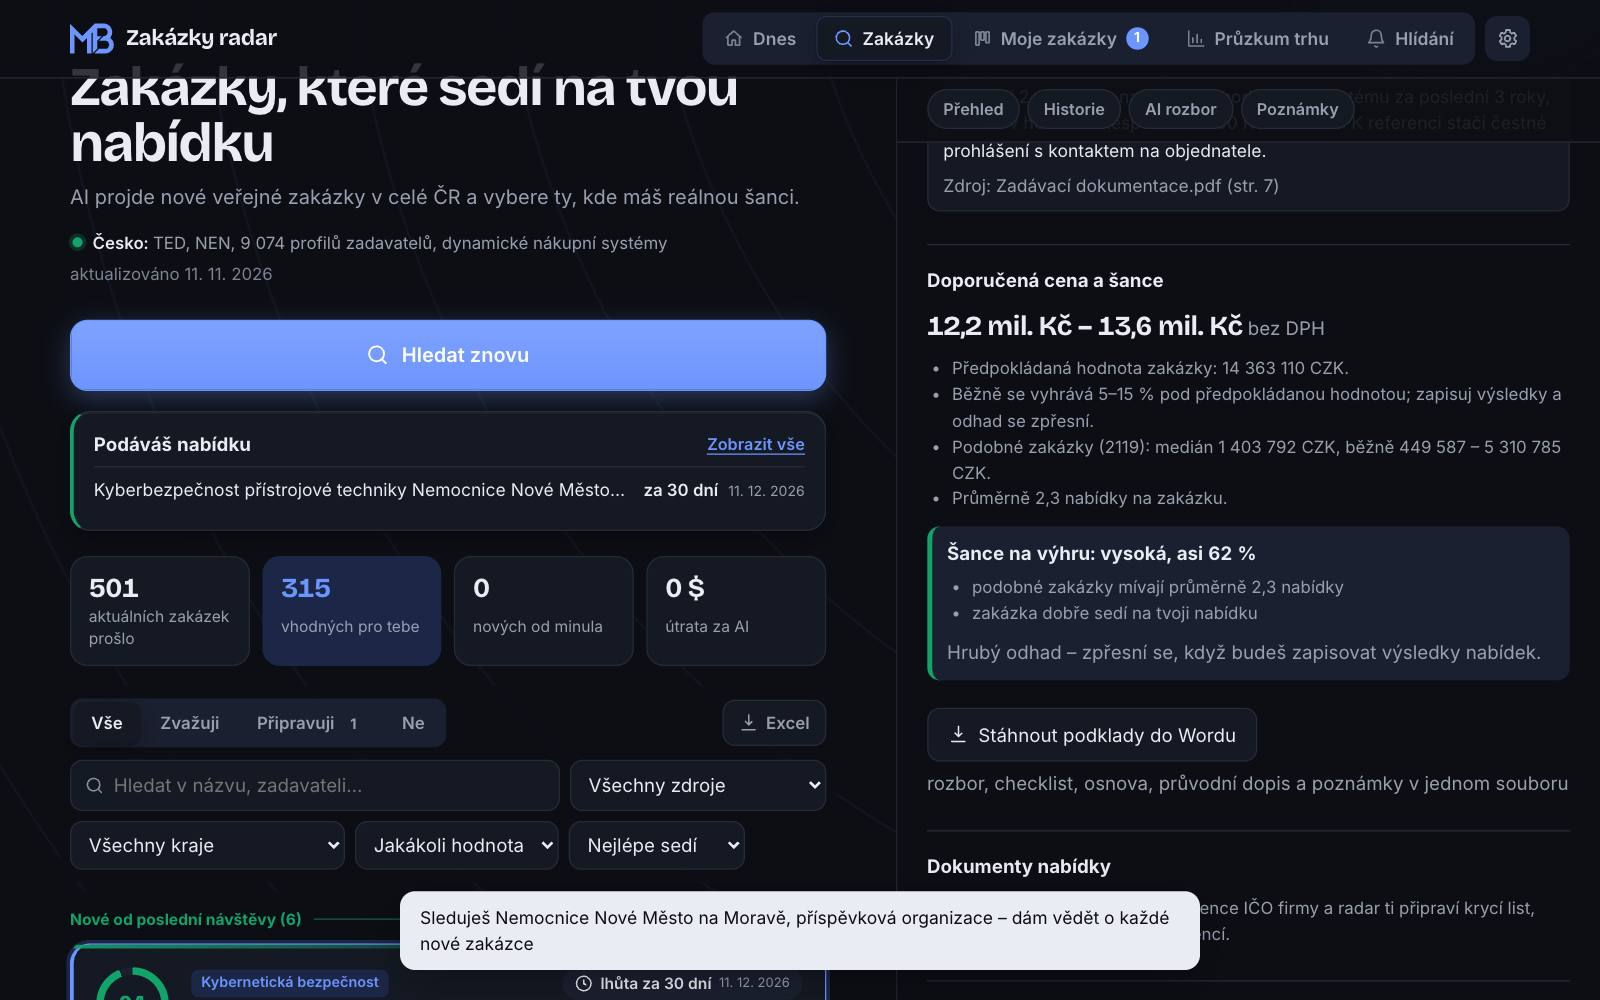
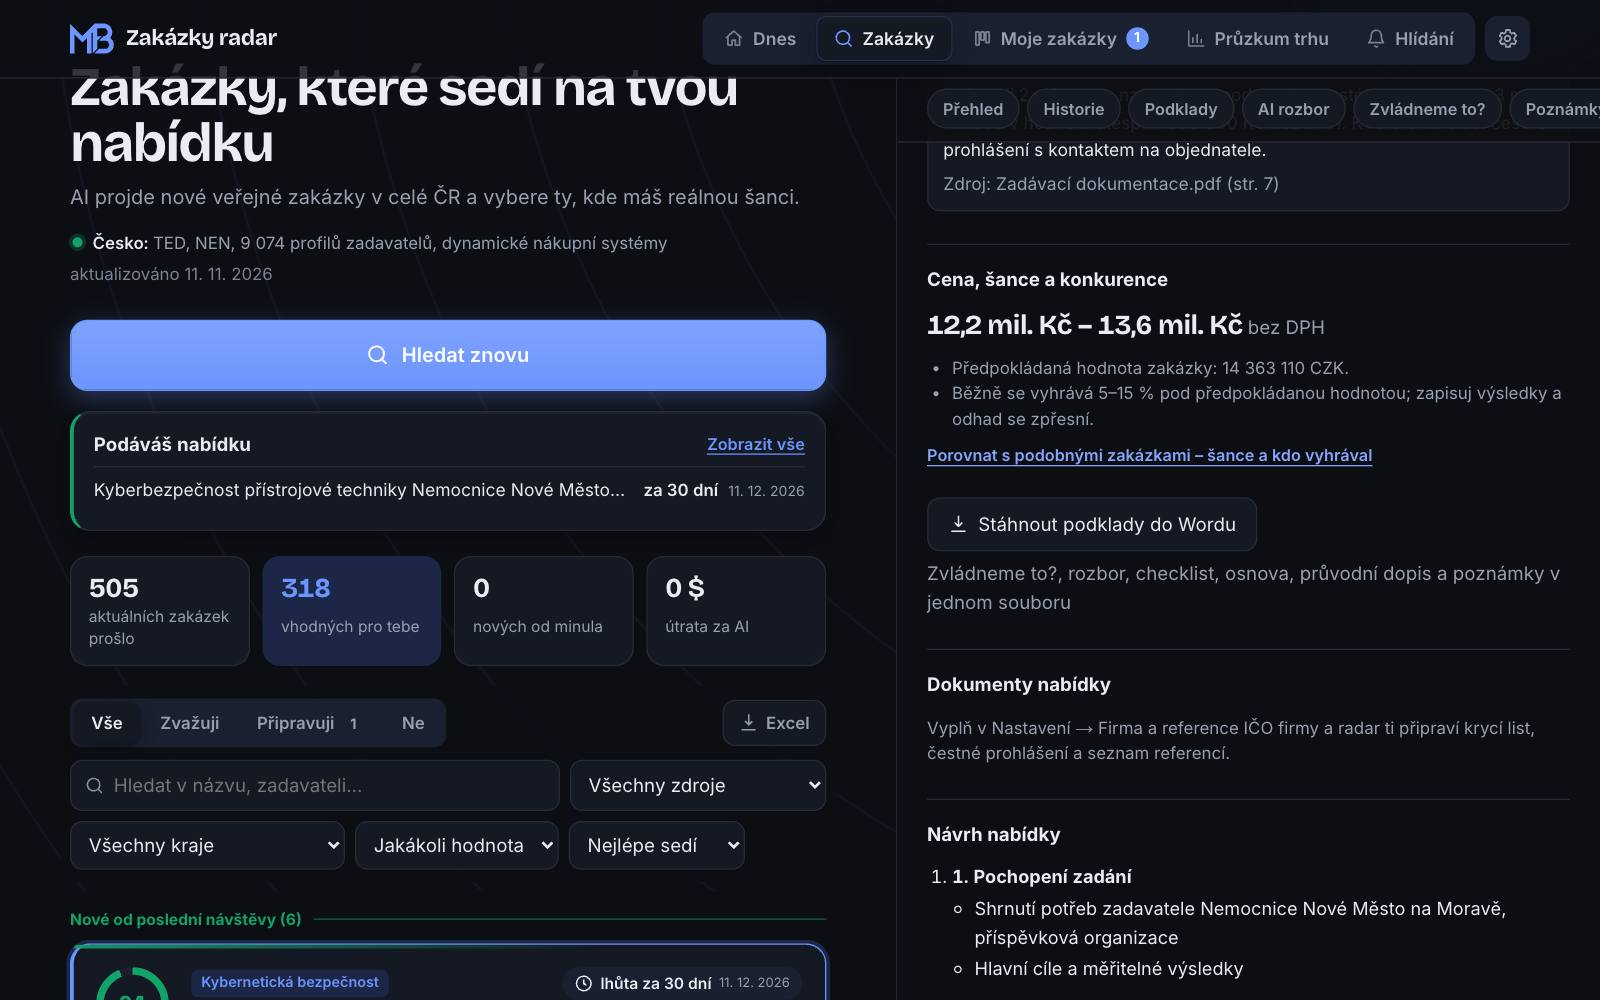
1.41.2: nové snímky v návodech

diff --git a/README.md b/README.md
@@ -66,6 +66,7 @@ npm run dev
 ## Verze
 Číslo verze je v `package.json`, zobrazuje se v patičce a v Nastavení. Při každém vydání ho zvýšit a doplnit sem.
 
+- **1.41.2** – návody: nové snímky Zadávací podklady, Zvládneme to? (3 kroky), AI rozbor a Cena, šance a konkurence.
 - **1.41.1** – návody vynechají kroky, ke kterým ještě není snímek.
 - **1.41.0** – Nastavení → Vzhled: „Vesmír tmavý“ a „Vesmír světlý“ (černá noc s hvězdami / světlá obrácená verze, bílý akcent, Big Shoulders verzálky v nadpisech a Public Sans v textu – písma uložená v appce přes @fontsource, tlačítka jako pilulky, plochy oddělené čárou, bez stínů a gradientů, barva jen pro význam). Návody: nová kapitola Zvládneme to?, texty podle úklidu 1.40.
 - **1.40.0** – úklid duplicit: (1) jedna sekce „Cena, šance a konkurence“ místo dvou cenových; (2+4) „Zadávací podklady“ se nahrají jednou pro celou zakázku a použijí je AI rozbor, Zvládneme to? i Zeptej se dokumentace (staré nahrávání do 4 MB zrušeno), stažená dokumentace z portálu se 30 min drží v paměti serveru, citace z nahraného textu ukazují stranu; (3) AI rozbor bez vlastního verdiktu, podmínek a dotazů – rozhodnutí je jen ve Zvládneme to? (rozbor ukáže předběžný dojem), Word bere kvalifikaci ze Zvládneme to?; (5) stav e-mailu jen v Nastavení → E-mailová upozornění, oprava: e-mail se počítá i z OWNER_/USER_ …:e-mail; (6) v Nastavení už není duplicitní přehled dat (je na Dnes), zůstává Stáhnout všechno znovu; (7) odstraněno staré přidávání subjektů bez vyhledání.
